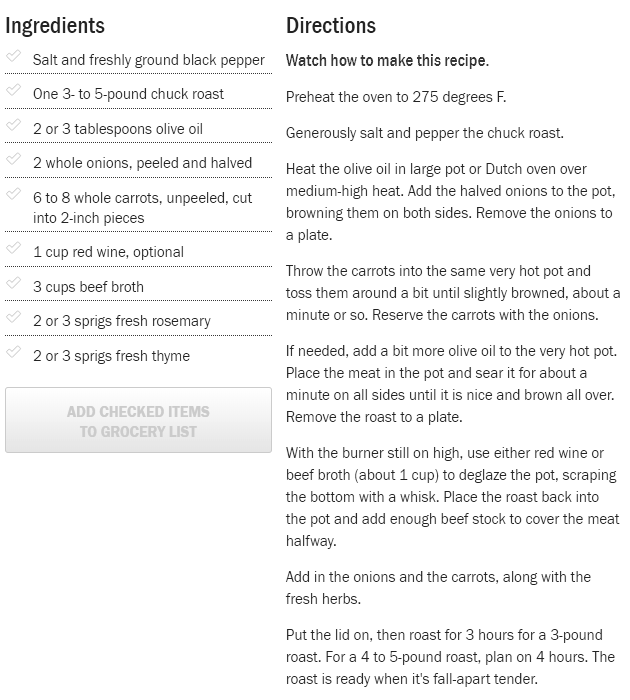
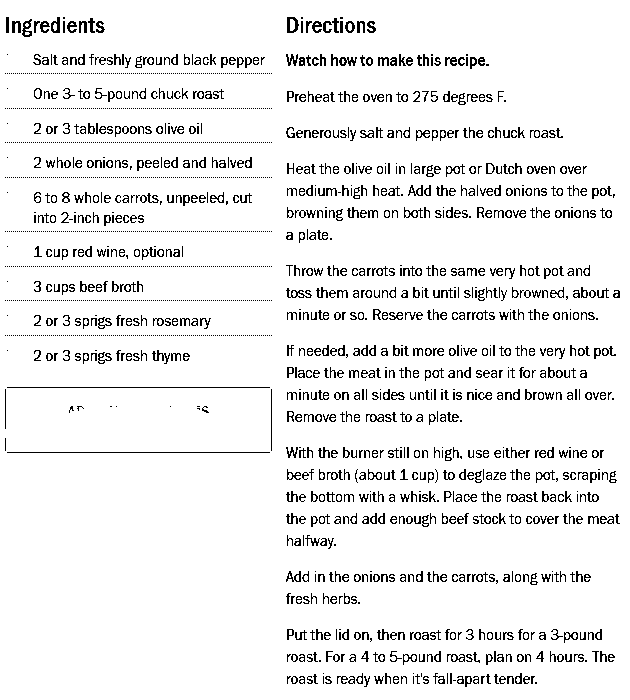
Made good progress on image processing, now just having issues converting between types (the APIs aren't interacting well). Updated elements of the UI to aid with testing.

diff --git a/recipe-interpreter/interpreter/TestImagePreprocessing.java b/recipe-interpreter/interpreter/TestImagePreprocessing.java
@@ -1,15 +1,46 @@
 package interpreter;
 
 import Catalano.Imaging.FastBitmap;
-import Catalano.Imaging.Filters.GaussianNoise;
+import Catalano.Imaging.FastGraphics;
+import Catalano.Imaging.Filters.*;
+
+import java.awt.image.BufferedImage;
+import java.io.File;
 
 public class TestImagePreprocessing {
 
     public static void main(String[] args) {
-        FastBitmap image = new FastBitmap("C:/Users/desli/Documents/git/GFS_Capstone/recipe-interpreter/interpreter/test-recipe-four.PNG");
+        File file = new File("C:/Users/desli/Documents/git/GFS_Capstone/recipe-interpreter/interpreter/test-recipe-four.PNG");
+        Interpreter interpreter = new Interpreter();
+
+        interpreter.preprocessImage(file);
+        /*FastBitmap image = new FastBitmap("C:/Users/desli/Documents/git/GFS_Capstone/recipe-interpreter/interpreter/test-recipe-four.PNG");
+        Resize resize = new Resize((int) (image.getWidth() * 1.5), (int) (image.getHeight() * 1.5), Resize.Algorithm.BILINEAR);
+        resize.applyInPlace(image);
         image.toGrayscale();
-        GaussianNoise noiseRemoval = new GaussianNoise();
-        //noiseRemoval.applyInPlace(image);
-        image.saveAsPNG("C:/Users/desli/Documents/git/GFS_Capstone/recipe-interpreter/interpreter/test-recipe-four-GS.PNG");
+
+
+        BradleyLocalThreshold bradleyLocalThreshold = new BradleyLocalThreshold();
+        FastBitmap bradImage = new FastBitmap(image);
+        bradleyLocalThreshold.applyInPlace(bradImage);
+        bradImage.saveAsPNG("C:/Users/desli/Documents/git/GFS_Capstone/recipe-interpreter/interpreter/test-recipe-four-BRAD.PNG");
+
+        /*NiblackThreshold niblackThreshold = new NiblackThreshold();
+        FastBitmap niblockImage = new FastBitmap(image);
+        niblackThreshold.applyInPlace(niblockImage);
+        contrastCorrection.applyInPlace(niblockImage);
+        niblockImage.saveAsPNG("C:/Users/desli/Documents/git/GFS_Capstone/recipe-interpreter/interpreter/test-recipe-four-NIB.PNG");
+
+        SauvolaThreshold sauvolaThreshold = new SauvolaThreshold();
+        FastBitmap sauvolaImage = new FastBitmap(image);
+        sauvolaThreshold.applyInPlace(sauvolaImage);
+        contrastCorrection.applyInPlace(sauvolaImage);
+        sauvolaImage.saveAsPNG("C:/Users/desli/Documents/git/GFS_Capstone/recipe-interpreter/interpreter/test-recipe-four-SAU.PNG");
+
+        WolfJolionThreshold wolfJolionThreshold = new WolfJolionThreshold();
+        FastBitmap wolfImage = new FastBitmap(image);
+        wolfJolionThreshold.applyInPlace(wolfImage);
+        contrastCorrection.applyInPlace(wolfImage);
+        wolfImage.saveAsPNG("C:/Users/desli/Documents/git/GFS_Capstone/recipe-interpreter/interpreter/test-recipe-four-WOLF.PNG");*/
     }
 }

diff --git a/recipe-interpreter/interpreter/Interpreter.java b/recipe-interpreter/interpreter/Interpreter.java
@@ -1,16 +1,22 @@
 package interpreter;
 
 import Catalano.Imaging.FastBitmap;
+import Catalano.Imaging.Filters.BradleyLocalThreshold;
 import Catalano.Imaging.Filters.GaussianNoise;
+import Catalano.Imaging.Filters.Resize;
 import com.sun.jna.Platform;
 import gui.TesseractOptions;
 import net.sourceforge.tess4j.Tesseract;
 import net.sourceforge.tess4j.TesseractException;
+import org.apache.commons.io.FileUtils;
+import org.apache.commons.io.FilenameUtils;
 
 import javax.imageio.ImageIO;
 import java.awt.image.BufferedImage;
 import java.io.File;
+import java.io.FileOutputStream;
 import java.io.IOException;
+import java.nio.file.Files;
 
 public class Interpreter {
 
@@ -37,13 +43,17 @@ public class Interpreter {
 
     public File preprocessImage(File given) {
         try {
-            BufferedImage bufferedImage = ImageIO.read(given);
-            FastBitmap fastBitmap = new FastBitmap(bufferedImage);
-            fastBitmap.toGrayscale();
-            GaussianNoise noiseRemoval = new GaussianNoise();
-            noiseRemoval.applyInPlace(fastBitmap);
-            bufferedImage = fastBitmap.toBufferedImage();
-            ImageIO.write(bufferedImage, "testname", given);
+            FastBitmap image = new FastBitmap(ImageIO.read(given));
+            Resize resize = new Resize((int) (image.getWidth() * 1.5), (int) (image.getHeight() * 1.5), Resize.Algorithm.BILINEAR);
+            resize.applyInPlace(image);
+            image.toGrayscale();
+
+            BradleyLocalThreshold bradleyLocalThreshold = new BradleyLocalThreshold();
+            bradleyLocalThreshold.applyInPlace(image);
+
+            image.saveAsPNG("./tmp.png");
+
+            return new File("./tmp.png");
         } catch (Exception e) {
             e.printStackTrace();
         }

diff --git a/recipe-interpreter/gui/controllers/MainStageController.java b/recipe-interpreter/gui/controllers/MainStageController.java
@@ -7,6 +7,7 @@ import javafx.fxml.FXMLLoader;
 import javafx.scene.Parent;
 import javafx.scene.Scene;
 import javafx.scene.control.Button;
+import javafx.scene.control.MenuItem;
 import javafx.scene.control.TabPane;
 import javafx.scene.control.TextArea;
 import javafx.scene.image.Image;
@@ -45,6 +46,9 @@ public class MainStageController {
     private Button performOCRButton;
 
     @FXML
+    private MenuItem performOCRMenuItem;
+
+    @FXML
     private TabPane tabPane;
 
     private Interpreter interpreter = new Interpreter();
@@ -72,6 +76,7 @@ public class MainStageController {
     @FXML
     private void promptWithImageSelector() {
         FileChooser fileChooser = new FileChooser();
+        fileChooser.setInitialDirectory(new File(System.getProperty("user.home"), "Downloads"));
         fileChooser.setTitle("Select An Image");
         fileChooser.getExtensionFilters().add(
                 new FileChooser.ExtensionFilter("Image Files", "*.png", "*.jpg", "*.gif"));
@@ -81,6 +86,7 @@ public class MainStageController {
             selectedImage = interpreter.preprocessImage(image.get());
             imageView.setImage(new Image(new FileInputStream(selectedImage)));
             performOCRButton.setDisable(false);
+            performOCRMenuItem.setDisable(false);
         } catch (FileNotFoundException e) {
             e.printStackTrace();
         }
